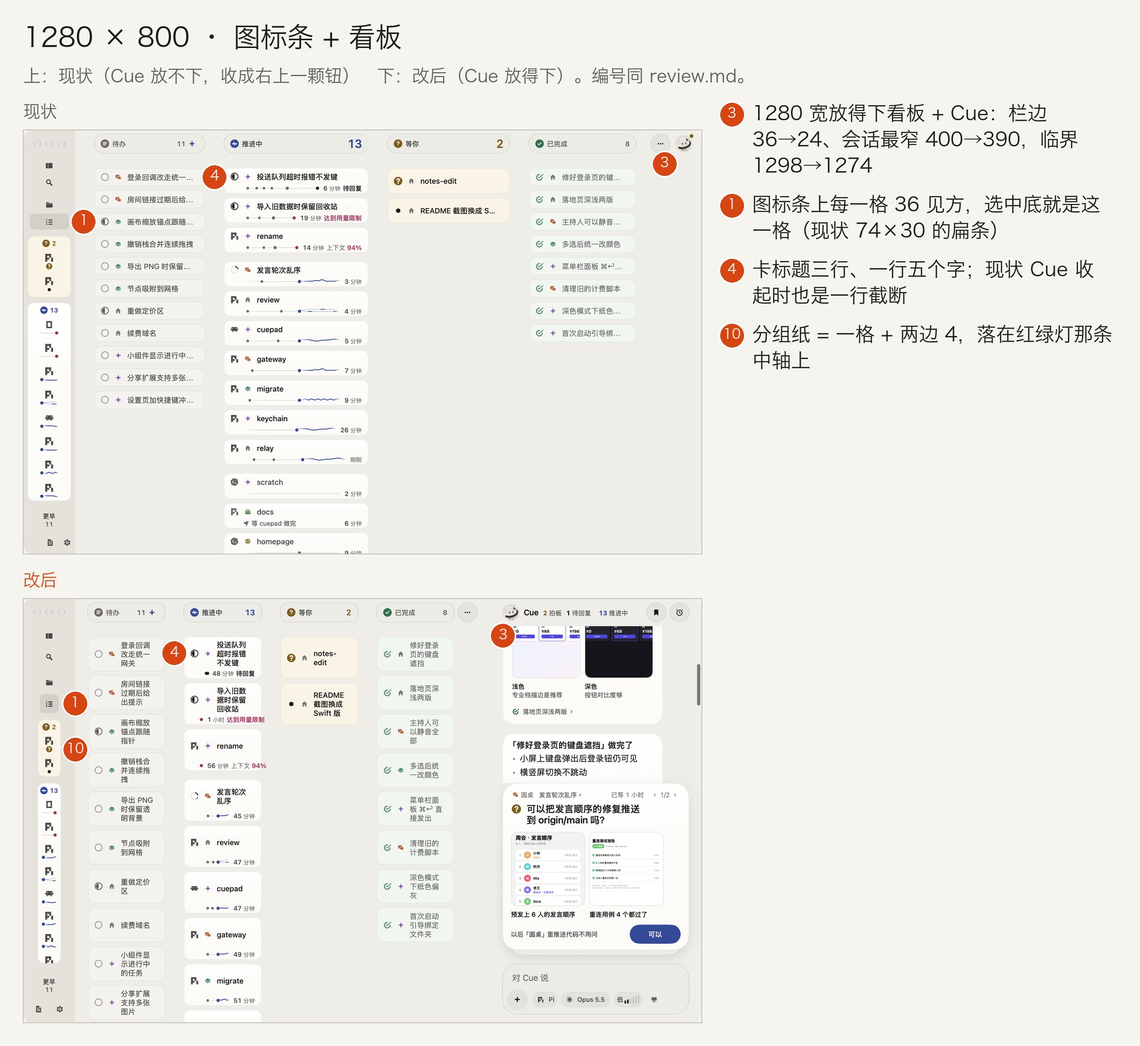
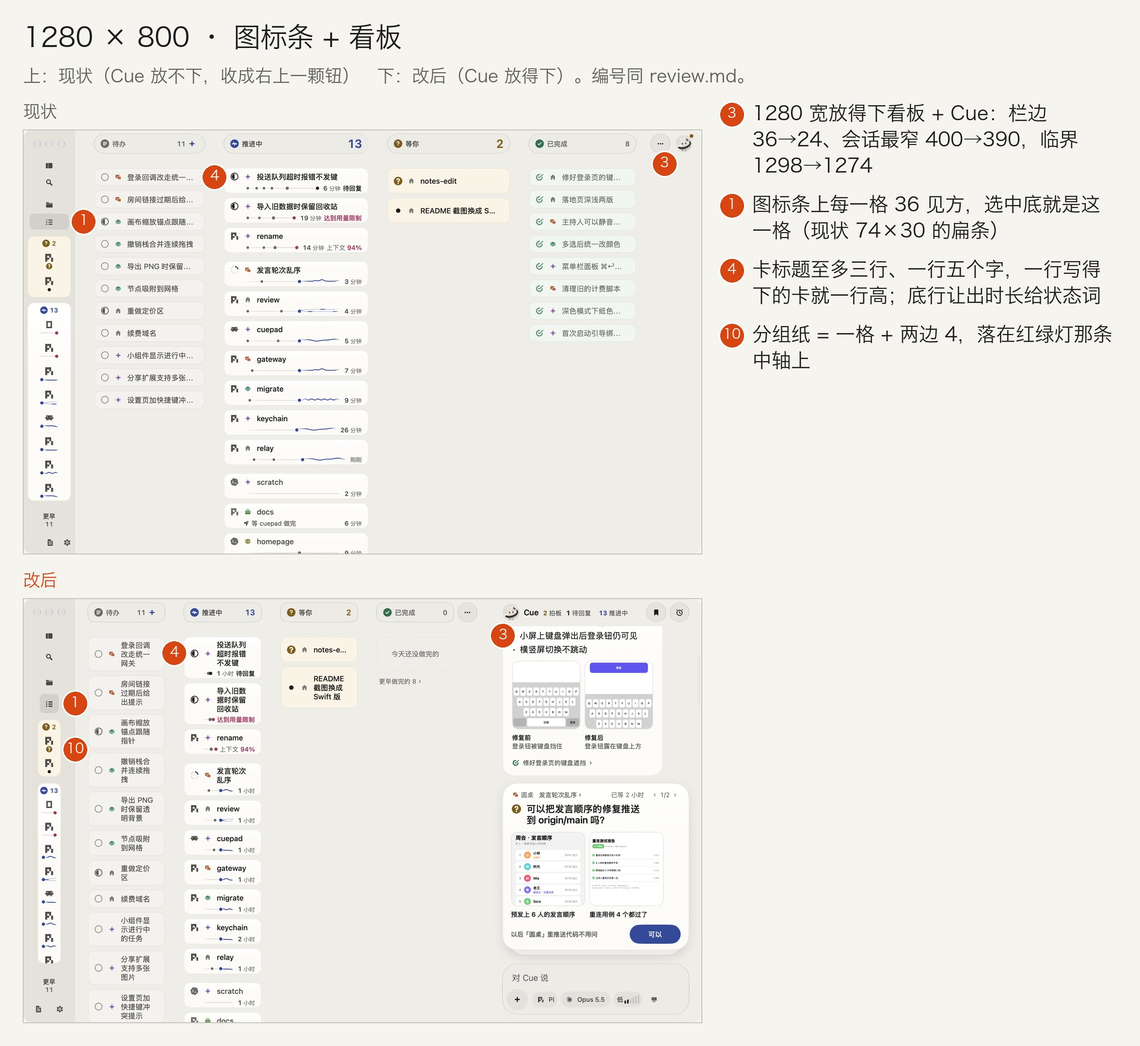
原型：看板卡高跟着标题实际行数，卡下沿那一行放不下时收缝、丢时长、截断而不越出卡边，拉丁词不在连字符处拆；重拍原图与标注图 #61

diff --git a/apple/App/Sources/UI/Shared/Components/BoardLine.swift b/apple/App/Sources/UI/Shared/Components/BoardLine.swift
@@ -12,7 +12,8 @@ extension EnvironmentValues {
 /// - 右段固定占 `nowShare` 是现在（`BoardPulse.Trace`）：在跑是从最后一颗（靛青）点长出的波浪或子代理直轨（`WaveStrip`）；
 ///   停住是淡线接到右端、末端一颗与状态词同色的点，被打断是断线；歇着是淡线、不带点。每张卡的现在在同一位置、同一长度，一列读起来整齐；
 /// - 歇着、这次停下 Cue 已交给别处时整条线换成在等哪一处做完（`HandoffLine`），同高、不挪卡；
-/// - 右端只写一个时长：会话在此刻这个状态里待了多久（同会话行那一格，`PiClock.Style.span`；数字加粗、单位小一号淡色），要你管的状态词紧跟。
+/// - 右端只写一个时长：会话在此刻这个状态里待了多久（同会话行那一格，`PiClock.Style.span`；数字加粗、单位小一号淡色），要你管的状态词紧跟；
+///   卡窄时怎么让、绝不越出卡边，在 `BoardLineRow`。
 /// 动只经 `LoopLayer`，只有看得见的在动：卡在懒加载栈里，出屏就不存在；不放循环动效时（`LoopsPlay`）静止；
 /// 一列里排在第 `maxMoving` 条以后的静止（`moves` 由列按先后给）——"同屏最多几条"要逐行读几何才判得出，每行一个几何读数的开销比省下的动画还大，
 /// 按列里的先后数是最轻的等价做法：列从上往下读，排在前面的就是一屏里先看到的。读屏不念：卡的读屏标签已说了状态。
@@ -51,17 +52,29 @@ struct BoardLine: View {
     }
 
     private var history: some View {
-        HStack(spacing: 8) {
-            if let handoff = pulse.handoff {
-                HandoffLine(handoff: handoff).font(TaskMetrics.caption).foregroundStyle(palette.ink2).frame(maxWidth: .infinity, alignment: .leading)
-            } else {
-                let marks = PastDots.marks(said: pulse.session.flatMap { said[$0.sessionID] } ?? [], origin: pulse.session?.createdAt)
-                LineSplit(share: Self.nowShare) {
-                    past(marks)
-                    now(joint: !marks.isEmpty)
+        BoardLineRow {
+            Group {
+                if let handoff = pulse.handoff {
+                    HandoffLine(handoff: handoff).font(TaskMetrics.caption).foregroundStyle(palette.ink2).lineLimit(1).frame(maxWidth: .infinity, alignment: .leading)
+                } else {
+                    let marks = PastDots.marks(said: pulse.session.flatMap { said[$0.sessionID] } ?? [], origin: pulse.session?.createdAt)
+                    LineSplit(share: Self.nowShare) {
+                        past(marks)
+                        now(joint: !marks.isEmpty)
+                    }
                 }
             }
-            reading
+            .layoutValue(key: BoardLineRow.Part.self, value: .line)
+            Group {
+                if let clock = pulse.shown?.clock { TimeSpent(clock: clock).fact().layoutValue(key: BoardLineRow.Part.self, value: .time) }
+                switch pulse.word {
+                case .state(let shown): Text(shown.label).font(TaskMetrics.caption.weight(.semibold)).foregroundStyle(pulse.tint(palette)).fact()
+                case .context(let meter): ContextFact(meter: meter).font(TaskMetrics.caption).fact()
+                case nil: EmptyView()
+                }
+            }
+            .lineLimit(1)
+            .allowsTightening(true)
         }
     }
 
@@ -101,18 +114,6 @@ struct BoardLine: View {
         Tail(joint: joint).stroke(palette.track, style: StrokeStyle(lineWidth: Self.stroke, lineCap: .round, dash: dashed ? [4, 4] : []))
     }
 
-    private var reading: some View {
-        HStack(spacing: 4) {
-            if let clock = pulse.shown?.clock { TimeSpent(clock: clock) }
-            switch pulse.word {
-            case .state(let shown): Text(shown.label).font(TaskMetrics.caption.weight(.semibold)).foregroundStyle(pulse.tint(palette))
-            case .context(let meter): ContextFact(meter: meter).font(TaskMetrics.caption)
-            case nil: EmptyView()
-            }
-        }
-        .fixedSize()
-    }
-
     /// 时长：数字加粗、单位小一号淡色（"12 分钟""42 sec"；不到一分钟是"刚刚"，整段淡色），一段字里分两种样子；经 `LiveText` 只在字会变的那一刻重画。
     private struct TimeSpent: View {
         let clock: PiClock
@@ -135,6 +136,55 @@ struct BoardLine: View {
     }
 }
 
+/// 卡下沿那一行（推进中的任务卡、会话卡，与从推进中飞出时还带着线的卡同这一处）：左边是线（或在等谁），右端是读数——时长、状态词（`Part`）。
+/// 卡变窄时按这个顺序让，整行绝不比卡给的宽：照常排（线与读数隔 8、时长与词隔 4）→ 收两道缝（4、2）→ 丢时长、让位给状态词 →
+/// 收字距（`allowsTightening`）→ 状态词截断；线至少留 `minLine`（末端那颗点与一小截线，看得出停在哪）。没有状态词时时长就是那一项，只截断不丢。
+/// 1280 宽的推进中列里线这一行约 97 宽："达到用量限制""上下文 94%"丢了时长后放得下，英文的"Usage limit reached"截断。
+/// 每次排版各量一次理想宽，不按 `ViewThatFits` 把几种排法都建出来；丢掉的排成 0 宽裁掉（`fact()`），读屏仍由卡的标签说状态。
+/// 被否决的：读数 `fixedSize`、线占剩下的——卡一窄读数就越过卡的右沿（1280 宽的推进中列，"1 小时 达到用量限制"）。
+struct BoardLineRow: Layout {
+    enum Part: LayoutValueKey {
+        case line, time, word
+        static let defaultValue = Part.word
+    }
+
+    static let minLine: CGFloat = 16
+
+    func sizeThatFits(proposal: ProposedViewSize, subviews: Subviews, cache: inout ()) -> CGSize {
+        CGSize(width: proposal.width ?? 0, height: proposal.height ?? WaveStrip.height)
+    }
+
+    func placeSubviews(in bounds: CGRect, proposal: ProposedViewSize, subviews: Subviews, cache: inout ()) {
+        let line = subviews.first { $0[Part.self] == .line }
+        let time = subviews.first { $0[Part.self] == .time }
+        let word = subviews.first { $0[Part.self] == .word }
+        // 必留的那一项（状态词，没有时是时长）与可丢的那一项（有状态词时的时长）
+        let (keep, spare) = word.map { ($0, time) } ?? (time, nil)
+        let keepWidth = keep?.sizeThatFits(.unspecified).width ?? 0
+        let spareWidth = spare?.sizeThatFits(.unspecified).width ?? 0
+        let room = bounds.width - Self.minLine
+        let plan: (lineGap: CGFloat, gap: CGFloat, spare: Bool) = [(8, 4, true), (4, 2, true), (4, 2, false)].first { plan in
+            let reading = keepWidth + (plan.2 && spare != nil ? spareWidth + plan.1 : 0)
+            return reading + (keep == nil ? 0 : plan.0) <= room + 0.5
+        } ?? (4, 2, false)
+        let shownKeep = min(keepWidth, max(0, room - plan.lineGap))
+        let shownSpare = plan.spare ? spareWidth : 0
+        // 从右往左摆：先必留的、再可丢的（时长在词左边），线占剩下的
+        var x = bounds.maxX
+        let height = bounds.height
+        if let keep {
+            x -= shownKeep
+            keep.place(at: CGPoint(x: x, y: bounds.midY), anchor: .leading, proposal: ProposedViewSize(width: shownKeep, height: height))
+        }
+        if let spare {
+            if shownSpare > 0 { x -= plan.gap + shownSpare }
+            spare.place(at: CGPoint(x: x, y: bounds.midY), anchor: .leading, proposal: ProposedViewSize(width: shownSpare, height: height))
+        }
+        if keep != nil { x -= plan.lineGap }
+        line?.place(at: bounds.origin, proposal: ProposedViewSize(width: max(0, x - bounds.minX), height: height))
+    }
+}
+
 /// 两段按比例分：后一段占 `share`。一次排完，不读几何。
 private struct LineSplit: Layout {
     let share: CGFloat
@@ -151,7 +201,7 @@ private struct LineSplit: Layout {
     }
 }
 
-/// 过去那段的每颗点：位置（0…1）乘宽，挨得太近的往左推开、至少隔 `spacing`，最后一颗钉在右端。
+/// 过去那段的每颗点：位置（0…1）乘宽，挨得太近的往左推开、至少隔 `spacing`，最后一颗钉在右端；推出左端的不画（卡窄、线让给读数时，`BoardLineRow`），不叠成一团。
 nonisolated private struct PastDots: Shape {
     enum Pick { case earlier, last }
     let marks: [CGFloat]
@@ -174,7 +224,7 @@ nonisolated private struct PastDots: Shape {
     static func xs(_ marks: [CGFloat], width: CGFloat) -> [CGFloat] {
         var xs = marks.map { $0 * width }
         for index in xs.indices.reversed().dropFirst() { xs[index] = min(xs[index], xs[index + 1] - spacing) }
-        return xs.map { max($0, spacing) }
+        return xs.indices.compactMap { index in index == xs.count - 1 ? max(xs[index], spacing) : xs[index] >= spacing ? xs[index] : nil }
     }
 
     /// 说过的每句在过去那段里的位置（0…1），最后一句落在 1：从会话开始起，相邻两个时刻隔多久开方当间距（至少一分钟那么宽），

diff --git a/apple/App/Sources/UI/Shared/Components/BoardCards.swift b/apple/App/Sources/UI/Shared/Components/BoardCards.swift
@@ -2,7 +2,7 @@ import CueStore
 import SwiftUI
 
 extension View {
-    /// 看板上一张卡的外形：纸面（`paper`），纸色随所在的列（`TaskBoard.Column.paper`，四列分轻重），多高由里面的排法定（`BoardCardLayout`：同一列的卡一样宽，就一样高；
+    /// 看板上一张卡的外形：纸面（`paper`），纸色随所在的列（`TaskBoard.Column.paper`，四列分轻重），多高由里面的排法定（`BoardCardLayout`：跟着标题实际排了几行走；
     /// 手机竖版看板里铺满行给的格），左右内边距与圆角见 `TaskMetrics`。平放的纸不加模糊阴影（侧栏开合时整面墙每帧重画，`paper` 的注释）：靠纸与桌面的明度、色相差把纸托出来。
     func boardCard(_ column: TaskBoard.Column) -> some View { modifier(BoardCardFrame(column: column)) }
 
@@ -21,7 +21,7 @@ extension EnvironmentValues {
     /// 卡在手机竖版看板（`PhoneBoard`）的一行里：卡铺满行给的那一格（格多高只由行高定，`BoardRowLane`）、标题小一档；
     /// 列里的卡（Mac、宽屏 iPad、iPhone 横屏）不是。
     @Entry var boardRow = false
-    /// 卡标题留几行、多高：所在的列或行按卡宽与字号算一次（`BoardCardMetrics.title`），同一列、同一行的卡都一样。
+    /// 卡标题至多几行、上下留多少：所在的列或行按卡宽与字号算一次（`BoardCardMetrics.title`），同一列、同一行的卡都一样。
     @Entry var boardTitle = BoardTitle()
 }
 
@@ -98,6 +98,36 @@ extension Workspace {
 }
 #endif
 
+/// 卡标题的字（任务卡、会话卡、等你卡同这一处）：拉丁词按词断——词里的连字符换成不断行的（U+2011），"notes-edit"不拆成"notes- / edit"；
+/// 整个标题只是一个拉丁词（没有空格、没有汉字）时只排一行，放不下先收字距、再截断，不按字母折行。中文照常按字折，至多所在的列给的行数（`boardTitle`）。
+/// 几个拉丁词里有一个比一行还长时系统仍会在词中间折：标题里少见，不为它另排。
+struct BoardCardTitle: View {
+    let text: String
+    @Environment(\.boardTitle) private var band
+
+    init(_ text: String) { self.text = text }
+
+    var body: some View {
+        Text(Self.joined(text)).lineLimit(Self.oneWord(text) ? 1 : band.lines).allowsTightening(true)
+    }
+
+    private static func joined(_ text: String) -> String {
+        guard text.contains("-") else { return text }
+        let chars = Array(text)
+        return String(chars.indices.map { index in
+            chars[index] == "-" && index > 0 && index < chars.count - 1 && chars[index - 1].isLetterOrDigit && chars[index + 1].isLetterOrDigit ? "\u{2011}" : chars[index]
+        })
+    }
+
+    private static func oneWord(_ text: String) -> Bool {
+        !text.isEmpty && text.allSatisfy { !$0.isWhitespace && !$0.unicodeScalars.contains { $0.properties.isIdeographic } }
+    }
+}
+
+private extension Character {
+    var isLetterOrDigit: Bool { isLetter || isNumber }
+}
+
 /// 推进中一个没绑没做完的任务的活会话（终端里开的、"新会话"、只有已完成的事绑着的）：同任务卡（`BoardTaskCard`）的语法——
 /// 开头是这家 Agent 的品牌标（`AgentKind.mark`，任务是完成圈），标题是会话名，下沿是那条线（`BoardLine`，按 `BoardPulse` 画，右端写此刻状态多久与要你管的状态词），
 /// 看全部项目时标题前是它归处的项目小图形；悬停提示写项目与哪家 Agent。点了打开会话；长按与右键是会话的菜单（`SessionActions`，各处同一份）。
@@ -122,7 +152,7 @@ struct BoardSessionCard: View {
                 .font(.system(size: TaskMetrics.cardLead * 0.85)).foregroundStyle(resting ? palette.ink3 : palette.ink2)
                 .frame(width: TaskMetrics.cardLead, height: TaskMetrics.cardLead)
                 if let project { BoardProjectGlyph(project: project) }
-                Text(session.title).foregroundStyle(resting ? palette.ink2 : palette.ink)
+                BoardCardTitle(session.title).foregroundStyle(resting ? palette.ink2 : palette.ink)
             }
             .boardCard(.advancing)
         }
@@ -135,7 +165,7 @@ struct BoardSessionCard: View {
 
 /// 卡里的排法（看板上所有的卡同一种）：开头记号、项目小图形与标题一行带，右端是调用处给的尾巴；
 /// 推进中的卡标题贴上沿，下面是那条线（`BoardLine`，时长与要你管的状态词在线的右端）：标题一整带都给字（状态词放在标题右端时，窄列里标题只剩四五个字）。
-/// 卡多高只由这里加出来：上下留白、标题（按所在的列或行给的行数与留白，`boardTitle`：只有一行字的卡也一样高）、线。
+/// 卡多高只由这里加出来：上下留白、标题（实际排了几行就多高，至多所在的列或行给的行数，`boardTitle`；行数是上限、不预留）、线。
 struct BoardCardLayout<Lead: View, Trailing: View>: View {
     let advancing: Bool
     var pulse = BoardPulse()
@@ -183,7 +213,7 @@ struct BoardCardLayout<Lead: View, Trailing: View>: View {
             Spacer(minLength: 0)
             trailing
         }
-        .frame(minHeight: titleBand.height)
+        .frame(minHeight: BoardCardMetrics.titleRow)
     }
 
     /// 推进中：标题下面让出线那一截，线压在卡的下沿、从标题的字下面起。列里标题贴上沿、线离它 `waveGap`；

diff --git a/apple/App/Sources/UI/Shared/Components/TaskMetrics.swift b/apple/App/Sources/UI/Shared/Components/TaskMetrics.swift
@@ -41,7 +41,7 @@ enum TaskMetrics {
 
 /// 任务看板的卡（`boardCard`）：左右内边距 `cardPadding`、圆角 `cardRadius`；开头的记号占 `cardLead` 见方，看全部项目时标题前一个 `cardGlyph` 的项目小图形；
 /// 卡离列边与卡与卡之间都是 `inset`（列的托盘与拖入底是 `Radius.sheet`，与卡近似同心）。
-/// 卡的高度由几段加出来（`BoardCardLayout`），不另写一个数：列里的卡是上下留白（重的列 `titlePadding`、轻的列 `lightPadding`）、标题（按 `title` 留足行数，至少 `titleRow`）；
+/// 卡的高度由几段加出来（`BoardCardLayout`），不另写一个数：列里的卡是上下留白（重的列 `titlePadding`、轻的列 `lightPadding`）、标题（实际排了几行，至多 `title` 给的行数，至少 `titleRow`）；
 /// 推进中的卡是 `titleTop`、标题那一带、`waveGap`、线（`WaveStrip.height`）、`waveBottom`，与等你的卡同高。
 /// 标题与线之间那一截（Mac 6、手机 8）不能再窄：再贴近，线读起来像标题的下划线或删除线。手机竖版看板里卡铺满行给的格（`BoardRowLane`）。
 enum BoardCardMetrics {
@@ -69,20 +69,18 @@ enum BoardCardMetrics {
     /// 推进中的卡与别的列的卡同高：线占掉的那一截从上下两份 `titlePadding` 里出。
     static var waveGap: CGFloat { 2 * titlePadding - titleTop - WaveStrip.height - waveBottom }
 
-    /// 卡标题留几行、那一截多高、上下留多少（三端的列与手机的行同一条，所在的列或行按卡宽与字号算一次交给卡，`boardTitle`）：
+    /// 卡标题至多几行、上下留多少（三端的列与手机的行同一条，所在的列或行按卡宽与字号算一次交给卡，`boardTitle`）：
     /// 按标题那一截一行放得下几个字定（卡宽去掉左右内边距、开头的圈与项目小图形连同它们与标题之间的缝，`lead`）：放得下 `oneLine` 个字排一行，放得下 `twoLine` 个字排两行，
     /// 再窄（列压到最窄附近：Mac 1280 宽、1512 宽开着 Cue 时待办那一列）排三行；辅助字号下再多一行。标题多是十到十二个字（大库里九到二十二个），
-    /// 一行八个字、两行一行五个字都会截成"改走统…"。高按行数留足（只有一行字的卡也一样高，字在里面竖直居中）。
+    /// 一行八个字、两行一行五个字都会截成"改走统…"。行数是上限、不预留：一行写得下的卡就一行高（`BoardCardLayout`），不在标题下空一块。
     /// 轻的两列（`TaskBoard.Column.light`）是矮卡：上下只留 `lightPadding`。
     /// 手机的行里卡总窄（`cardWidth` 给 nil）：两行，卡铺满行给的格，不另留高。
     static func title(_ column: TaskBoard.Column, cardWidth: CGFloat?, typeSize: DynamicTypeSize) -> BoardTitle {
         let more = typeSize.isAccessibilitySize ? 1 : 0
         guard let cardWidth else { return BoardTitle(lines: 2 + more) }
-        let font = titleFont(typeSize)
-        let chars = (cardWidth - 2 * TaskMetrics.cardPadding - lead) / font.pointSize
+        let chars = (cardWidth - 2 * TaskMetrics.cardPadding - lead) / titleSize(typeSize)
         let lines = (chars >= oneLine ? 1 : chars >= twoLine ? 2 : 3) + more
-        return BoardTitle(
-            lines: lines, height: max(titleRow, (font.lineHeight * CGFloat(lines)).rounded(.up)), padding: column.light ? lightPadding : titlePadding)
+        return BoardTitle(lines: lines, padding: column.light ? lightPadding : titlePadding)
     }
 
     private static let oneLine: CGFloat = 12
@@ -90,21 +88,18 @@ enum BoardCardMetrics {
     /// 圈、项目小图形与三道缝（圈与图形、图形与标题、标题与右边的空）。
     private static var lead: CGFloat { TaskMetrics.cardLead + TaskMetrics.cardGlyph + 3 * leadGap }
 
-    /// 列里卡标题的字（`TaskMetrics.lineFont`）：中文字宽等于字号。
-    private static func titleFont(_ typeSize: DynamicTypeSize) -> (pointSize: CGFloat, lineHeight: CGFloat) {
+    /// 列里卡标题的字号（`TaskMetrics.lineFont`）：中文字宽等于字号。
+    private static func titleSize(_ typeSize: DynamicTypeSize) -> CGFloat {
         #if os(macOS)
-        let font = NSFont.systemFont(ofSize: Typography.bodySize, weight: .medium)
-        return (font.pointSize, NSLayoutManager().defaultLineHeight(for: font))
+        Typography.bodySize
         #else
-        let font = UIFont.preferredFont(forTextStyle: .body, compatibleWith: UITraitCollection(preferredContentSizeCategory: UIContentSizeCategory(typeSize)))
-        return (font.pointSize, font.lineHeight)
+        UIFont.preferredFont(forTextStyle: .body, compatibleWith: UITraitCollection(preferredContentSizeCategory: UIContentSizeCategory(typeSize))).pointSize
         #endif
     }
 }
 
-/// 卡标题留几行、那一截至少多高、上下留多少（`BoardCardMetrics.title`；手机的行里卡铺满格，不另留高与上下）。
+/// 卡标题至多几行、上下留多少（`BoardCardMetrics.title`；手机的行里卡铺满格，不另留上下）。
 struct BoardTitle: Equatable {
     var lines = 1
-    var height: CGFloat = 0
     var padding: CGFloat = 0
 }

diff --git a/apple/App/Sources/UI/Shared/Components/BoardTaskCard.swift b/apple/App/Sources/UI/Shared/Components/BoardTaskCard.swift
@@ -1,7 +1,7 @@
 import CueStore
 import SwiftUI
 
-/// 看板上的一件任务：待办、推进中、已完成三列同一种卡（等你列是同样的卡，`BoardWaitCard`），同一列一样高（`boardCard`），卡上只有标题与一个状态记号，其余收进悬停提示。
+/// 看板上的一件任务：待办、推进中、已完成三列同一种卡（等你列是同样的卡，`BoardWaitCard`），卡上只有标题与一个状态记号，其余收进悬停提示。
 /// 纸色、标题的墨与字重、圈的深浅随列的轻重（`TaskBoard.Column`，`BoardWeight.swift`）。
 /// - 开头是完成圈（`TaskCheckButton`，空心描边；做完是石绿的对勾），看全部项目时标题前一个项目小图形（`BoardProjectGlyph`，Mac 上悬停是项目联动）；
 /// - 推进中下沿是那条线（`BoardLine`：过去说过的几句、此刻在跑或停住，右端是此刻状态多久与要你管的状态词），歇着的标题淡一档；已完成卡尾是 Cue 点名的成果图；
@@ -68,7 +68,7 @@ struct BoardTaskCard: View {
     /// 标题：墨与字重随列（`TaskBoard.Column.titleInk`）；推进中歇着的淡一档；点圈停留的那一下最淡、划线（看得清刚勾掉的是哪条）。
     private func title(resting: Bool) -> some View {
         let ink = check.phase != .idle ? palette.ink3 : resting ? palette.ink2 : column.titleInk(palette)
-        return Text(task.title.textGlyphs).fontWeight(column.titleWeight)
+        return BoardCardTitle(task.title.textGlyphs).fontWeight(column.titleWeight)
             .strikethrough(check.phase != .idle, color: palette.ink3).foregroundStyle(ink)
     }
 

diff --git a/apple/App/Sources/UI/Shared/Components/BoardWaitCard.swift b/apple/App/Sources/UI/Shared/Components/BoardWaitCard.swift
@@ -1,7 +1,7 @@
 import CueStore
 import SwiftUI
 
-/// 等你列的一张卡（`TaskBoard.Held`）：一个在等你的会话，与看板别的卡同一种（`BoardCardLayout`，一样高，一个记号加名字）。
+/// 等你列的一张卡（`TaskBoard.Held`）：一个在等你的会话，与看板别的卡同一种（`BoardCardLayout`，一个记号加名字）。
 /// - 记号说状态：会话在问你是赭黄问号（`PiStateGlyph(.asking)`），待回复是墨点（`PiStateGlyph(.awaitsReply)`，各处待回复同一个，赭黄只给拍板）。
 /// - 名字同别的列：绑着的任务名，没绑任务的会话名，换列不换名字，折几行同别的卡（`BoardCardMetrics.title`）；看全部项目时前面是项目小图形。
 ///   问什么在 Mac 的悬停提示里（项目、问句或"待回复"、等了多久）与点进去看。
@@ -29,7 +29,7 @@ struct BoardWaitCard: View {
                     .frame(width: TaskMetrics.cardLead, height: TaskMetrics.cardLead)
                 if let project { BoardProjectGlyph(project: project) }
                 if held.item?.task.isPinned == true { BoardPin() }
-                Text(held.title).foregroundStyle(palette.ink)
+                BoardCardTitle(held.title).foregroundStyle(palette.ink)
             }
             .boardCard(.waiting)
         }

diff --git a/apple/App/Sources/UI/Shared/Components/PiSessionList.swift b/apple/App/Sources/UI/Shared/Components/PiSessionList.swift
@@ -344,7 +344,7 @@ private struct FactsLayout: Layout {
     }
 }
 
-private extension View {
-    /// 读数一行里的一项：能被排成 0 宽并裁掉（`FactsLayout`）。
+extension View {
+    /// 读数一行里的一项：能被排成 0 宽并裁掉（`FactsLayout`、`BoardLineRow`）。
     func fact() -> some View { frame(minWidth: 0, alignment: .leading).clipped() }
 }

diff --git a/docs/layout.md b/docs/layout.md
@@ -32,7 +32,7 @@
 ## 页面与布局稳定
 
 - 栏头与工具栏的内容只随用户操作与数据变化，不随滚动位置、尺寸等布局读数变化。几何读数（`onGeometryChange` / `onScrollGeometryChange`）不写回影响自身排版的状态；按宽度切换排版用 `Layout` 或 `ViewThatFits`。违反会形成布局反馈环，`layout-stress.sh` 抓这类环。
-- 布局要稳定：容器多大只看它是什么，不看里面填了多少——空、少、满同一套尺寸；可选的那一行没有也占着位置，计数原地换数、不让一行出现又消失。内容一变整块就缩、就跳，用户读作出了什么事，眼睛还得重新找。例：竖屏 iPhone 的进展页四行铺满顶栏到底部，行高只由这段高定，空行、卡多卡少都不改（`PhoneBoard`；横屏同 iPad、Mac 四列：列最窄 160，`BoardColumns`；Mac 放不下四列时横向滚动、最右一列露出一截（放得下时同一个滚动区只是滚不动，拖过最窄宽不换结构），iPad 主栏窄于看板最窄宽 `WideMetrics.board` 时换成竖版看板，四列不压窄）；卡留足标题行数、同一列的卡等高（`BoardCardMetrics`）；页顶那一排中间那块玻璃先定高再上玻璃，项目没写介绍也与两侧圆钮同高（`HeaderPiece`）；同样的还有 Mac 项目页顶的介绍行（`ProjectPage`）、置顶项目卡与"更早"行的第二行、会话条的项目与进展两行。列表的条数是内容，行随条数增减；不变的是每一行、每一块自己的尺寸。
+- 布局要稳定：容器多大只看它是什么，不看里面填了多少——空、少、满同一套尺寸；可选的那一行没有也占着位置，计数原地换数、不让一行出现又消失。内容一变整块就缩、就跳，用户读作出了什么事，眼睛还得重新找。例：竖屏 iPhone 的进展页四行铺满顶栏到底部，行高只由这段高定，空行、卡多卡少都不改（`PhoneBoard`；横屏同 iPad、Mac 四列：列最窄 160，`BoardColumns`；Mac 放不下四列时横向滚动、最右一列露出一截（放得下时同一个滚动区只是滚不动，拖过最窄宽不换结构），iPad 主栏窄于看板最窄宽 `WideMetrics.board` 时换成竖版看板，四列不压窄）；卡标题的行数按列宽给上限、卡高跟着标题实际排了几行走（`BoardCardMetrics`：预留到上限时一行标题下面空一大块，读作没排好）；页顶那一排中间那块玻璃先定高再上玻璃，项目没写介绍也与两侧圆钮同高（`HeaderPiece`）；同样的还有 Mac 项目页顶的介绍行（`ProjectPage`）、置顶项目卡与"更早"行的第二行、会话条的项目与进展两行。列表的条数是内容，行随条数增减；不变的是每一行、每一块自己的尺寸。
 - 滚动区内容的边用 `safeAreaPadding`，不用 `contentMargins(…, for: .scrollContent)`：同一棵树里几块滚动区在同一次更新里定内容边距时，SwiftUI 会把一块的边距写到另一块上、之后不改回，安全区的边每次排版重算。滚动条要贴原来的边就用负的 `contentMargins(…, for: .scrollIndicators)` 抵回。唯一例外是清掉系统列表默认顶边的 `contentMargins(.top, 0)`（`RouteView`）：安全区加不出负数。
 - 手机输入框里的选择菜单用 `MenuButton`，不用 SwiftUI 的 `Menu`：菜单一开键盘变矮，输入框会掉下去再弹回（理由在它的头注释）。
 - 读库的修饰符（`observing`）挂在一个真的视图上，读不出来时可以是 `Color.clear`：订阅等视图出现才启动，什么都不排它就不启动，页面永远空白。

diff --git a/design/mac-craft/review.md b/design/mac-craft/review.md
@@ -51,6 +51,16 @@
   - 1512 宽开着 Cue：三行，每行六个字。
   - 演示库在 1280 宽下，标题全部读全。
 - 代价：轻的两列也按同一规则排。1512 宽收起 Cue 时，已完成的卡从一行截断变成两行读全，列更长。
+- 审核发现三处后补的规则（都只写在卡的那一处，任务卡、会话卡、等你卡共用）：
+  1. 行数是上限、不是预留（`BoardCardLayout`）。卡高跟着标题实际排了几行走，一行标题的卡就是一行高。原先按上限留高，rename、review 这类卡在标题下空出两行。
+  2. 卡下沿那一行绝不越出卡边（`BoardLineRow`）。放不下时依次让：线与读数之间的缝收窄（8→4、4→2），丢掉时长、让位给状态词，收字距，状态词截断。线至少留 16，过去那段放不下的点不画。原先读数不让，1280 宽时「1 小时 达到用量限制」「上下文 94%」越过卡的右沿。
+  3. 拉丁词按词断（`BoardCardTitle`）。词里的连字符换成不断行的那一种。整个标题只有一个拉丁词时只排一行，放不下先收字距、再截断。「notes-edit」不再断成「notes- / edit」，窄时显示「notes-e…」。
+- 底行压测：
+  - 大库没有在跑和在等的会话，压不到底行。所以逐个量了卡下沿能出现的每一个状态词，量的是中英两种文字的 12 半粗宽度。
+  - 最窄的推进中列（1274 宽，四列都是 160）给状态词留 76。
+  - 中文 15 个都放得下，最宽的「达到用量限制」72。
+  - 英文 7 个截断，都在卡内，最宽的「Usage limit reached」118。另外「Not delivered」79、「Needs your OK」88、「Waiting for Cue」91、「Reply incomplete」102、「Needs your answer」113、「Status unconfirmed」117。
+  - 演示库实拍：1280、1512 宽，中文与英文，开着 Cue 和收起 Cue，都没有越边。
 
 **5 · MEDIUM · 看板列头像一排状态胶囊**
 - 现状：列头是玻璃胶囊，推进中、等你的数字 22 半粗。一排四颗读作状态读数，压过下面的卡。
